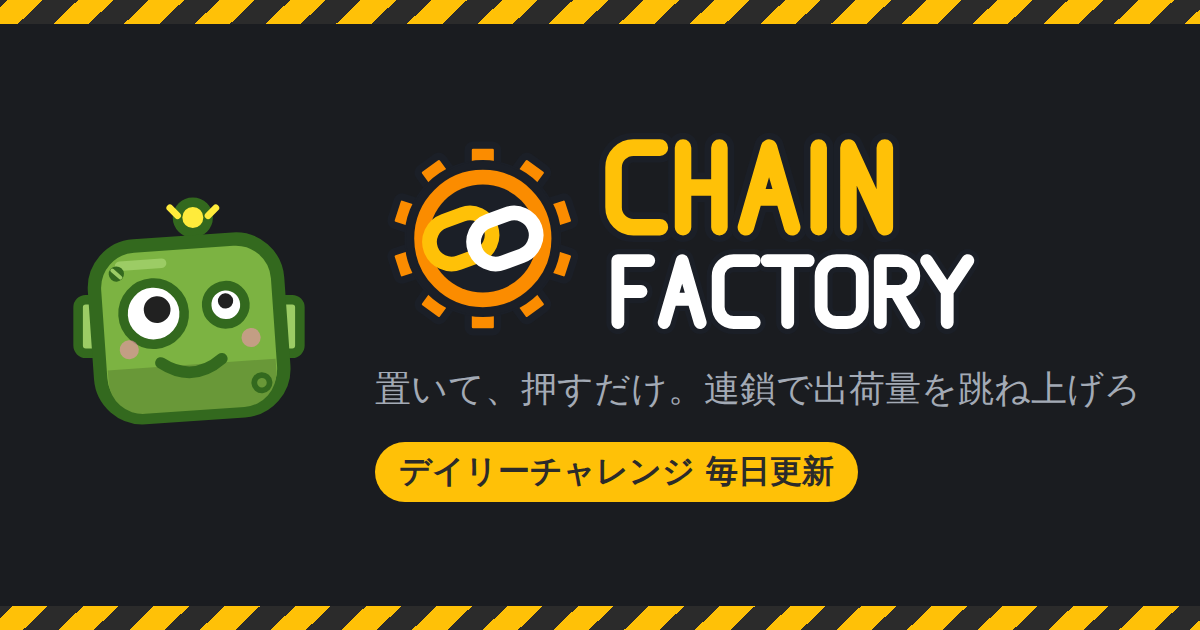
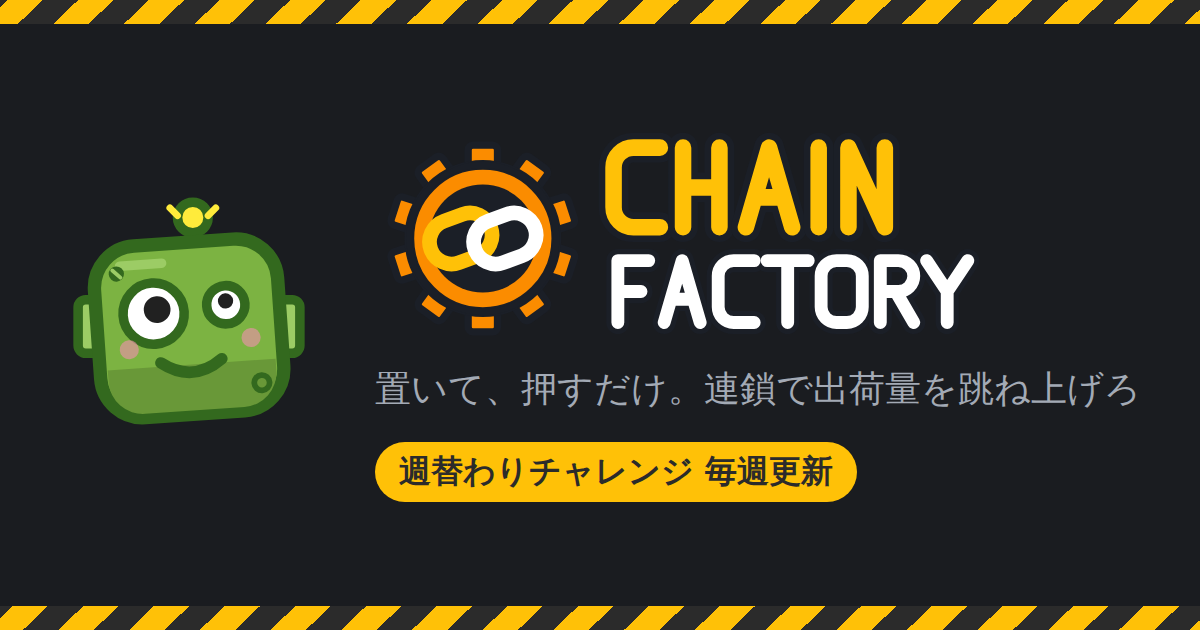
週替わり: 文言・説明文・OGP・ドキュメントを週替わりチャレンジにそろえる
- index.html の説明文と OGP 画像、残っていたコメントの「デイリー」
- docs/ops/weekly.md（スケジュール・ジョブ・失敗時の対応・時刻送り・ゲームの外で直す文言）
- デプロイ・バックアップ・Steam 関連の手順、README、規約類の下書き（リプレイの公開・保存期間）
- Steamworks の実績一覧を書き出し直す

Claude-Session: https://claude.ai/code/session_0114RMmfSAyXuJ1DmH6Wx86W

Changed region(s): [[0.3083, 0.7238, 0.7092, 0.7841]]

diff --git a/apps/client/src/state/gameReducer.ts b/apps/client/src/state/gameReducer.ts
@@ -4,7 +4,7 @@
  * ゲームのルール自体は @chain-factory/sim のラン進行関数に任せ、
  * ここでは「何を選択中か」「演出を再生中か」など UI の状態だけを扱う。
  *
- * 組み立て中の操作は操作ログ（RunOp）としても記録する。デイリーの本番ではこれをサーバーへ送り、
+ * 組み立て中の操作は操作ログ（RunOp）としても記録する。週替わりの本番ではこれをサーバーへ送り、
  * サーバーが同じ関数で再生して検証する（盤面や予算そのものは送らない）。
  */
 import type { OnlineErrorCode } from '../online/api';
@@ -71,9 +71,9 @@ export type GameError = RunError | `online.${OnlineErrorCode}`;
 export interface GameState {
   run: RunState;
   mode: PlayMode;
-  /** 前回の本番以降の操作ログ（デイリーの本番でサーバーへ送る） */
+  /** 前回の本番以降の操作ログ（週替わりの本番でサーバーへ送る） */
   pendingOps: RunOp[];
-  /** デイリーの本番でサーバーの応答を待っている */
+  /** 週替わりの本番でサーバーの応答を待っている */
   awaitingServer: boolean;
   selection: Selection;
   playback: Playback | null;
@@ -93,7 +93,7 @@ export interface GameState {
   meta: MetaProgress;
   /** 直前に終わったランで新しく解放されたもの（結果画面で表示） */
   unlocks: Unlock[];
-  /** 実績（解除済み・デイリーの参加日数。ランをまたいで残る） */
+  /** 実績（解除済み・週替わりの参加日数。ランをまたいで残る） */
   achievements: AchievementProgress;
   /**
    * 直前の操作の手応え（効果音用）。seq が変わるたびに1回鳴らす。
@@ -102,7 +102,7 @@ export interface GameState {
   feedback: { kind: FeedbackKind; seq: number } | null;
 }
 
-/** 「元に戻す」で戻す先（操作ログも同じ位置まで戻すので、デイリーの検証とずれない） */
+/** 「元に戻す」で戻す先（操作ログも同じ位置まで戻すので、週替わりの検証とずれない） */
 export interface UndoEntry {
   run: RunState;
   pendingOps: RunOp[];
@@ -130,13 +130,13 @@ export type FeedbackKind =
 
 export type GameAction =
   /**
-   * 新しいラン・デイリー・練習に入る / 通常のランに戻る。
+   * 新しいラン・週替わり・練習に入る / 通常のランに戻る。
    * ランの組み立て（相場・体験版の制限など）は画面側で行う（state/newRun.ts、online/weeklyRun.ts）
    */
   | { type: 'loadRun'; run: RunState; mode: PlayMode }
   /** 全シフトクリア後に延長戦へ進む */
   | { type: 'startOvertime' }
-  /** ランを諦める（通常ラン・練習だけ。デイリー本番はサーバーに記録が残るので諦められない） */
+  /** ランを諦める（通常ラン・練習だけ。週替わりの本番はサーバーに記録が残るので諦められない） */
   | { type: 'giveUp' }
   | { type: 'buy'; offerIndex: number }
   /** 消耗品を使う（ランダム配置権: 盤面のどこかに床が湧く） */
@@ -165,12 +165,12 @@ export type GameAction =
   | { type: 'chooseEvent'; index: number }
   | { type: 'startTrial' }
   | { type: 'startCommit' }
-  /** デイリー: サーバーが検証して返した本番シードで確定する */
+  /** 週替わり: サーバーが検証して返した本番シードで確定する */
   | { type: 'serverCommitted'; seed: number }
   | { type: 'serverCommitFailed'; error: GameError }
   | { type: 'playbackFinished' }
   | { type: 'closePlayback' }
-  /** デイリーのランキングで自分の順位を受け取った（上位○% の実績） */
+  /** 確定した結果発表で自分の順位を受け取った（上位○% の実績） */
   | { type: 'weeklyRanked'; topPercent: number }
   /** 撮影モード: 盤面を差し替える（書き出した JSON の読み込み。ui/CapturePanel.tsx） */
   | { type: 'captureLoadBoard'; board: Board; floor?: FloorLayer }
@@ -229,12 +229,12 @@ function applyRunOp(
   return result.ok ? { ...next, pendingOps: [...state.pendingOps, op] } : next;
 }
 
-/** 本番の結果を再生に渡す（シードは通常・練習なら省略、デイリーはサーバーから） */
+/** 本番の結果を再生に渡す（シードは通常・練習なら省略、週替わりはサーバーから） */
 function beginCommit(state: GameState, seed?: number): GameState {
   const committed = commitShift(state.run, seed === undefined ? {} : { seed });
   if ('error' in committed) return { ...state, awaitingServer: false, error: committed.error };
   // 通常のランは、終わったらその場でメタ進行に反映する（再生中にリロードされても実績が残るように）。
-  // デイリー・練習は全員同じ条件で遊ぶモードなので、メタ進行には反映しない
+  // 週替わり・練習は全員同じ条件で遊ぶモードなので、メタ進行には反映しない
   const recorded =
     state.mode.kind === 'normal'
       ? applyRunToMeta(state.meta, committed.state)
@@ -421,7 +421,7 @@ function reduce(state: GameState, action: GameAction): GameState {
     }
 
     case 'returnAll': {
-      // 1マスずつ「手持ちに戻す」操作として記録する（デイリーのサーバー検証で同じように再生できるように）
+      // 1マスずつ「手持ちに戻す」操作として記録する（週替わりのサーバー検証で同じように再生できるように）
       const { board } = state.run;
       let next: GameState = { ...state, selection: null };
       let returned = 0;
@@ -437,7 +437,7 @@ function reduce(state: GameState, action: GameAction): GameState {
     }
 
     case 'movePart': {
-      // 「手持ちに戻す → 置く」の2つの操作として記録する（デイリーのサーバー検証で同じように再生できるように）
+      // 「手持ちに戻す → 置く」の2つの操作として記録する（週替わりのサーバー検証で同じように再生できるように）
       const { from, to } = action;
       const part = getPart(state.run.board, from.x, from.y);
       if (!part || (from.x === to.x && from.y === to.y)) return state;
@@ -497,7 +497,7 @@ function reduce(state: GameState, action: GameAction): GameState {
     }
 
     case 'startCommit':
-      // デイリー本番は本番シードをサーバーに求める（送信は画面側。応答で serverCommitted が来る）
+      // 週替わりの本番は本番シードをサーバーに求める（送信は画面側。応答で serverCommitted が来る）
       if (state.run.config.commitSeedMode === 'external') {
         return state.run.phase === 'building'
           ? { ...state, awaitingServer: true, error: null }
@@ -548,7 +548,7 @@ function reduce(state: GameState, action: GameAction): GameState {
 /**
  * 保存すべきラン。本番の再生中はすでに結果が確定しているので、
  * リロードでやり直せないよう確定後のランを保存する。
- * デイリー・練習は端末に保存しない（デイリーはサーバーから再開する）ので null
+ * 週替わり・練習は端末に保存しない（週替わりはサーバーから再開する）ので null
  */
 export function getPersistedRun(state: GameState): RunState | null {
   if (state.mode.kind !== 'normal') return null;

diff --git a/apps/client/src/share/card.ts b/apps/client/src/share/card.ts
@@ -3,7 +3,7 @@
  *
  * 画面や Canvas には触れない（描くのは share/renderCard.ts）。文言は呼び出し側で翻訳して渡す。
  * - 通常ラン: 盤面の縮小図を載せる（配置データから描き直す。スクリーンショットは使わない）
- * - デイリー: 盤面はネタバレになるので載せず、シフトごとの結果（達成・未達・未到達）を載せる
+ * - 週替わり: 盤面はネタバレになるので載せず、シフトごとの結果（達成・未達・未到達）を載せる
  */
 import type { Board, PartId } from '@chain-factory/sim';
 import { BOARD_COLORS, UI_COLORS } from '../assets/palette';
@@ -32,20 +32,20 @@ export type DrawCommand =
 export type ShiftResult = 'cleared' | 'failed' | 'notPlayed';
 
 export interface ShareCardInput {
-  /** 見出し（例: 「打ち上げ成功！」「デイリー #12」） */
+  /** 見出し（例: 「打ち上げ成功！」「週替わり #12」） */
   title: string;
-  /** 見出しの下の小さな文字（デイリーの日付など。なければ null） */
+  /** 見出しの下の小さな文字（週替わりの日付など。なければ null） */
   subtitle: string | null;
   scoreLabel: string;
   /** 出荷量（表記済みの文字列） */
   score: string;
   /** 到達したシフト（例: 「シフト 7 / 9 まで到達」） */
   shifts: string;
-  /** 順位（デイリーで取れたときだけ。例: 「12位・上位 5%」） */
+  /** 順位（週替わりで取れたときだけ。例: 「12位・上位 5%」） */
   rank: string | null;
-  /** 通常ランの盤面（デイリーは null） */
+  /** 通常ランの盤面（週替わりは null） */
   board: Board | null;
-  /** デイリーのシフトごとの結果（通常ランは null） */
+  /** 週替わりのシフトごとの結果（通常ランは null） */
   results: ShiftResult[] | null;
   url: string;
 }
@@ -130,7 +130,7 @@ export function buildShareCard(input: ShareCardInput, size: ShareCardSize): Draw
     { kind: 'hazard', x: 0, y: H - stripe, w: W, h: stripe, band: stripe },
   ];
 
-  // 絵（通常ランは盤面、デイリーはボルト）: 横長は右側に置く。正方形は文字の下に置く（大きさは残りの高さで決める）
+  // 絵（通常ランは盤面、週替わりはボルト）: 横長は右側に置く。正方形は文字の下に置く（大きさは残りの高さで決める）
   const landscapeArt = Math.round(H * 0.72);
   const artX0 = W - margin - landscapeArt;
 

diff --git a/apps/client/src/App.tsx b/apps/client/src/App.tsx
@@ -102,7 +102,7 @@ import { ShopPanel } from './ui/ShopPanel';
 import { UiIcon } from './ui/UiIcon';
 import { WorkshopBackdrop } from './ui/WorkshopBackdrop';
 
-/** ゲーム画面の始め方（デイリー・練習はメニューで組み立てたランを渡す） */
+/** ゲーム画面の始め方（週替わり・練習はメニューで組み立てたランを渡す） */
 export interface GameStart {
   run: RunState;
   mode: PlayMode;
@@ -158,7 +158,7 @@ export function App({ start, onTitle }: Props) {
   const [capturePeakFirst, setCapturePeakFirst] = useState(false);
   /** 撮影モード: 共有カードの確認 */
   const [sharePreview, setSharePreview] = useState(false);
-  /** デイリーのメニュー（開いていなければ null） */
+  /** 週替わりのメニュー（開いていなければ null） */
   const [weeklyMenu, setWeeklyMenu] = useState<'menu' | 'ranking' | null>(null);
 
   const { settings, updateSettings } = useSettings();
@@ -198,8 +198,8 @@ export function App({ start, onTitle }: Props) {
     else if (guideStep && tutorialPart(guideStep)) setTab('inventory');
   }
 
-  // 状態が変わるたびに保存する。ランは通常モードのみ（デイリーはサーバーから再開する）。
-  // デイリー・練習中は保存済みの通常ランを残したまま、メタ進行と実績だけを更新する
+  // 状態が変わるたびに保存する。ランは通常モードのみ（週替わりはサーバーから再開する）。
+  // 週替わり・練習中は保存済みの通常ランを残したまま、メタ進行と実績だけを更新する
   const persistedRun = getPersistedRun(state);
   useEffect(() => {
     saveGame({

diff --git a/apps/client/art/achievements.ts b/apps/client/art/achievements.ts
@@ -19,7 +19,7 @@ import { partBody } from './parts';
 import { circle, group, line, outlined, path, rect, svg } from './svg';
 
 /** 実績の系統（メダルの縁の色） */
-type Group = 'ship' | 'shift' | 'boss' | 'chain' | 'progress' | 'daily' | 'secret';
+type Group = 'ship' | 'shift' | 'boss' | 'chain' | 'progress' | 'weekly' | 'secret';
 
 const RING: Record<Group, string> = {
   ship: F.multiplier.main,
@@ -27,7 +27,7 @@ const RING: Record<Group, string> = {
   boss: U.missed,
   chain: F.branch.main,
   progress: F.hazard.main,
-  daily: F.retrigger.main,
+  weekly: F.retrigger.main,
   secret: F.economy.main,
 };
 
@@ -124,13 +124,13 @@ const DEFS: Record<AchievementId, { group: Group; body: string[] }> = {
     group: 'shift',
     body: [group({ transform: 'translate(0 -4)' }, moon()), label('9')],
   },
-  ACH_DAILY_FIRST: { group: 'daily', body: [uiArt('weekly', 32)] },
+  ACH_DAILY_FIRST: { group: 'weekly', body: [uiArt('weekly', 32)] },
   ACH_DAILY_CLEAR: {
-    group: 'daily',
+    group: 'weekly',
     body: [uiArt('weekly', 30), path('M36 38 l5 5 l10 -12', line(U.met, 4))],
   },
-  ACH_DAILY_TOP10: { group: 'daily', body: [uiArt('ranking', 28), label('10%', 0.42)] },
-  ACH_DAILY_7: { group: 'daily', body: [uiArt('weekly', 28), label('7')] },
+  ACH_DAILY_TOP10: { group: 'weekly', body: [uiArt('ranking', 28), label('10%', 0.42)] },
+  ACH_DAILY_7: { group: 'weekly', body: [uiArt('weekly', 28), label('7')] },
   ACH_JUNKBOT_JACKPOT: {
     group: 'secret',
     body: [art(partBody('junkbot'), 0.5), label('×3')],

diff --git a/apps/client/test/shareCard.test.ts b/apps/client/test/shareCard.test.ts
@@ -27,7 +27,7 @@ const normal = (score = '12,345'): ShareCardInput => ({
 
 const daily = (rank: string | null): ShareCardInput => ({
   ...normal(),
-  title: 'デイリー #12',
+  title: '週替わり #12',
   subtitle: '2026-10-01',
   shifts: '達成シフト 2 / 3',
   rank,
@@ -67,7 +67,7 @@ describe('共有カード', () => {
     expect(images(cs)).toEqual(expect.arrayContaining(['logo', 'part:switch', 'part:dock']));
   });
 
-  it('デイリー: 盤面は載せず（ネタバレ防止）、日付・順位・シフトごとの結果を載せる', () => {
+  it('週替わり: 盤面は載せず（ネタバレ防止）、日付・順位・シフトごとの結果を載せる', () => {
     const cs = buildShareCard(daily('3位・上位 5%'), 'square');
     expect(images(cs).some((i) => i.startsWith('part:'))).toBe(false);
     expect(texts(cs)).toEqual(expect.arrayContaining(['2026-10-01', '3位・上位 5%']));
@@ -75,7 +75,7 @@ describe('共有カード', () => {
     expect(cs.filter((c) => c.kind === 'rect' && c.radius !== undefined)).toHaveLength(3);
   });
 
-  it('デイリー: 順位が取れなければ順位の行を出さない', () => {
+  it('週替わり: 順位が取れなければ順位の行を出さない', () => {
     const cs = buildShareCard(daily(null), 'landscape');
     expect(texts(cs).some((t) => t.includes('位'))).toBe(false);
   });

diff --git a/apps/client/src/state/achievements.ts b/apps/client/src/state/achievements.ts
@@ -27,9 +27,9 @@ function apply(progress: AchievementProgress, context: AchievementContext): Achi
 
 /**
  * 本番を確定したとき
- * - どのモードでも: 出荷量・連鎖・ボス・延長戦（デイリーはサーバーで検証済みのシードで確定している）
+ * - どのモードでも: 出荷量・連鎖・ボス・延長戦（週替わりはサーバーで検証済みのシードで確定している）
  * - 通常ラン: 更新後のメタ進行（ランが終わったとき）
- * - デイリー本番: 参加日数・全シフトクリア
+ * - 週替わりの本番: 参加日数・全シフトクリア
  */
 export function achievementsAfterCommit(
   progress: AchievementProgress,
@@ -52,7 +52,7 @@ export function achievementsAfterCommit(
   });
 }
 
-/** デイリーのランキングを受け取ったとき（自分の結果がある = その日の本番を終えている） */
+/** 確定した結果発表で自分の順位を受け取ったとき（暫定ランキングでは判定しない） */
 export function achievementsAfterRanking(
   progress: AchievementProgress,
   topPercent: number,

diff --git a/apps/client/src/ui/online/SteamSignIn.tsx b/apps/client/src/ui/online/SteamSignIn.tsx
@@ -2,7 +2,7 @@
  * デスクトップ版の本人確認: Steam のチケットで登録・再ログインする（人間確認の代わり）
  *
  * 開いたら自動で1回試す。Steam が動いていない・Steam 側の障害のときは理由と「再試行」を出す。
- * 同じ Steam アカウントなら別の端末でも同じプレイヤーになる（進行中のデイリーも続きから遊べる）。
+ * 同じ Steam アカウントなら別の端末でも同じプレイヤーになる（進行中の週替わりも続きから遊べる）。
  */
 import { useCallback, useEffect, useState } from 'react';
 import { useI18n } from '../../i18n';
@@ -39,7 +39,7 @@ export function SteamSignIn({ onRegistered }: Props) {
       {busy && <p className="panel__hint">{t('online.steamSignIn')}</p>}
       {error && (
         <>
-          <p className="panel__hint daily__error">{t(`error.online.${error}`)}</p>
+          <p className="panel__hint weekly__error">{t(`error.online.${error}`)}</p>
           <button onClick={retry}>{t('online.retry')}</button>
         </>
       )}

diff --git a/apps/client/build/serviceWorkerPlugin.ts b/apps/client/build/serviceWorkerPlugin.ts
@@ -4,7 +4,7 @@
  * ビルド結果のファイル名（ハッシュ入り）をすべて「事前キャッシュ」の一覧に入れて sw.js を出力する。
  * キャッシュ名に一覧のハッシュを含めるので、新しいビルドを配信すると古いキャッシュは自動で消える。
  *
- * - /api/ はキャッシュしない（デイリー・ランキング・相場は常に最新を取りに行く。オフライン時は失敗させる）
+ * - /api/ はキャッシュしない（週替わり・ランキング・相場は常に最新を取りに行く。オフライン時は失敗させる）
  * - ページ遷移はネット優先（新しい版があればそれを使う）、失敗したらキャッシュの index.html
  * - それ以外（JS・CSS・画像・フォント）はキャッシュ優先（ファイル名にハッシュが入っているので古くならない）
  * - フォントは文字の範囲ごとに数百ファイルに分かれているので事前キャッシュせず、使ったものだけを保存する

diff --git a/packages/sim/src/config/runConfig.ts b/packages/sim/src/config/runConfig.ts
@@ -4,7 +4,7 @@
  * ラン開始時に balance/（＋メタ進行）から組み立てて RunState に保存する。
  * こうしておくと、
  * - balance/ を変更しても進行中のランの挙動は変わらない（セーブの互換性）
- * - フェーズ3の相場（価格）やデイリーの条件を、ここに差し込むだけで反映できる
+ * - フェーズ3の相場（価格）や週替わりの条件を、ここに差し込むだけで反映できる
  */
 import {
   BALANCE,
@@ -89,7 +89,7 @@ export interface RunConfig {
   /** ボス修正ルールの効果量（balance/ の boss の写し） */
   bossParams: Balance['boss'];
   starterKit: Partial<Record<PartId, number>>;
-  /** このランを作ったシミュレーションのバージョン（デイリーの提出で照合する） */
+  /** このランを作ったシミュレーションのバージョン（週替わりの提出で照合する） */
   simVersion: string;
   /**
    * 本番シードの決め方

diff --git a/apps/client/src/ui/online/HumanCheck.tsx b/apps/client/src/ui/online/HumanCheck.tsx
@@ -1,7 +1,7 @@
 /**
  * 人間確認（Turnstile）のウィジェット。通ったら匿名登録して onRegistered を呼ぶ
  *
- * デイリーに初めて参加するときだけ表示する（ランキングの閲覧・練習には不要）。
+ * 週替わりに初めて参加するときだけ表示する（ランキングの閲覧・練習には不要）。
  */
 import { useEffect, useRef, useState } from 'react';
 import { useI18n } from '../../i18n';
@@ -73,9 +73,9 @@ export function HumanCheck({ onRegistered }: Props) {
       {TURNSTILE_SITE_KEY ? (
         <div ref={containerRef} />
       ) : (
-        <p className="panel__hint daily__error">{t('online.notConfigured')}</p>
+        <p className="panel__hint weekly__error">{t('online.notConfigured')}</p>
       )}
-      {message && <p className="panel__hint daily__error">{message}</p>}
+      {message && <p className="panel__hint weekly__error">{message}</p>}
     </div>
   );
 }

diff --git a/packages/sim/src/run/ops.ts b/packages/sim/src/run/ops.ts
@@ -2,7 +2,7 @@
  * 操作ログ: 組み立て中の操作（購入・リロール・配置・回転・手持ちに戻す・売却・今日のイベントの選択・消耗品の使用）を
  * 1手ずつ記録したもの
  *
- * デイリーでは、クライアントはこの操作ログだけをサーバーへ送る。サーバーは同じラン進行関数で
+ * 週替わりでは、クライアントはこの操作ログだけをサーバーへ送る。サーバーは同じラン進行関数で
  * 最初から再生し、予算・ショップ・盤面の整合性を確かめてから本番を実行する
  * （クライアントが送った盤面や予算そのものは信用しない）。
  * 試運転はランの状態を変えない（試運転回数だけ）ので、操作ログには含めない。

diff --git a/packages/sim/src/balance/index.ts b/packages/sim/src/balance/index.ts
@@ -7,7 +7,7 @@
  * - floors.ts   床タイルの効果量（×2床・加算床・×3床）とシフト開始時のボーナス床・ランダム配置権
  * - stages.ts   日ごとのステージ（床の配置のテンプレートと、日ごとの抽選の帯）
  * - economy.ts  ショップの品数・リロール・売却・最初の手持ち
- * - shifts.ts   シフト表（ノルマ・予算・報酬）・延長戦・デイリー
+ * - shifts.ts   シフト表（ノルマ・予算・報酬）・延長戦・週替わり
  * - meta.ts     メタ進行（パーツの解放条件・工場拡張）
  * - events.ts   日ごとのイベント（2日目以降の朝に選ぶ）の候補と効果量
  * - boss.ts     ボスシフトの修正ルールの効果量
